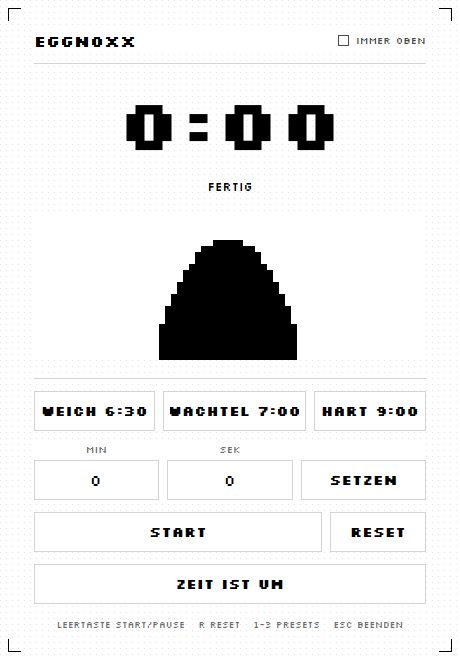
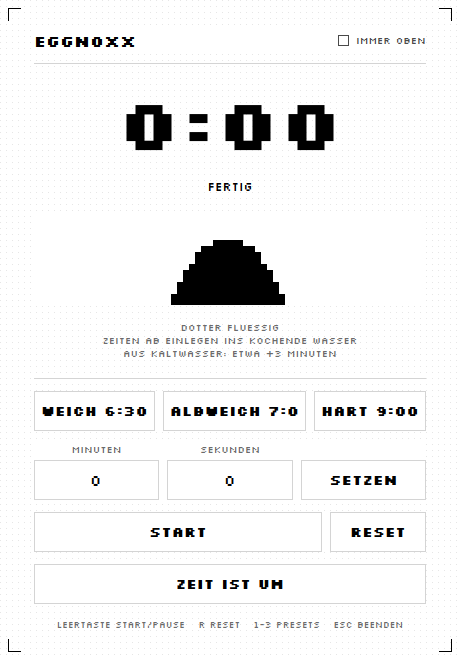
Kochzeiten praezisieren: Halbweich, Zaehlkonvention und Dotter-Hinweis
Zwei irrefuehrende Stellen korrigiert:

- Der mittlere Preset hiess "Wachtel", was ein Wachtelei (Gefluegel) meint.
  Die gemeinte Stufe ist die halbweiche: Dotter dickfluessig, weich. Der
  Key wandert entsprechend von "wachtel" nach "halbweich".
- Die Presets nannten eine Rechnung, ohne die Konvention zu nennen. Die
  klassischen Zeiten zaehlen ab dem Einlegen ins bereits kochende Wasser;
  aus Kaltwasser kostet dasselbe Ergebnis rund drei Minuten mehr. Die App
  sagt das jetzt sichtbar unter dem Ei und im Tooltip, statt es zu
  verschweigen.

Jeder Preset beschreibt zusaetzlich sein Ergebnis ("Dotter fluessig"), weil
eine Zeit allein nicht sagt, was der Dotter machen soll. Bei frei getippten
Zeiten entfaellt der Preset-Text, die Konvention bleibt sichtbar.

Tests: 37 Logik-Tests, darunter einer der sicherstellt, dass kein Preset
mehr "Wachtel" heisst, und einer fuer die Reihenfolge weich<halbweich<hart.

diff --git a/eggnoxx/window.py b/eggnoxx/window.py
@@ -23,7 +23,16 @@ from PySide6.QtWidgets import (
 
 from eggnoxx import theme
 from eggnoxx.alarm import Alarmer
-from eggnoxx.core import PRESETS, TICK_INTERVAL_MS, Countdown, State, clamp_duration
+from eggnoxx.core import (
+    BOILING_WATER_HINT,
+    COLD_WATER_HINT,
+    PRESETS,
+    TICK_INTERVAL_MS,
+    Countdown,
+    Preset,
+    State,
+    clamp_duration,
+)
 from eggnoxx.egg import EggWidget
 from eggnoxx.panel import Panel, separator
 
@@ -40,11 +49,13 @@ class MainWindow(QMainWindow):
         self.setMinimumSize(460, 660)
 
         self.timer = Countdown(PRESETS[0].seconds)
+        self._active_preset: Preset | None = PRESETS[0]
         self.egg = EggWidget()
         self.alarmer = Alarmer(self)
 
         self.time_label = self._build_time_label()
         self.status_label = self._build_status_label()
+        self.preset_hint = self._build_preset_hint()
         self.preset_buttons = self._build_presets()
         self.minutes_box, self.seconds_box = self._build_free_input()
         self.start_button = self._build_button("START", self._toggle)
@@ -87,11 +98,28 @@ class MainWindow(QMainWindow):
         label.setFont(theme.pixel(12))
         return label
 
+    def _build_preset_hint(self) -> QLabel:
+        """Describes the selected preset and when the countdown starts.
+
+        The classic German cooking times count from lowering the egg into
+        boiling water. Saying so matters: started from cold water the same
+        numbers are roughly three minutes short.
+        """
+        label = QLabel()
+        label.setAlignment(Qt.AlignmentFlag.AlignCenter)
+        label.setFont(theme.pixel(10))
+        label.setStyleSheet(f"color: {theme.DIM.name()};")
+        label.setWordWrap(True)
+        return label
+
     def _build_presets(self) -> list[QPushButton]:
         buttons = []
         for index, preset in enumerate(PRESETS, start=1):
             button = self._build_button(f"{preset.label.upper()} {preset.display}", None)
-            button.setToolTip(f"Kurzbefehl {index}")
+            button.setToolTip(
+                f"{preset.label}: {preset.note}\n"
+                f"{BOILING_WATER_HINT}\n{COLD_WATER_HINT}\nKurzbefehl {index}"
+            )
             button.clicked.connect(lambda _=False, p=preset: self._select_preset(p))
             buttons.append(button)
         return buttons
@@ -126,6 +154,8 @@ class MainWindow(QMainWindow):
         layout.addWidget(self.status_label)
         layout.addSpacing(10)
         layout.addWidget(self._build_egg_row())
+        layout.addSpacing(4)
+        layout.addWidget(self.preset_hint)
         layout.addStretch(1)
         layout.addSpacing(6)
 
@@ -197,8 +227,8 @@ class MainWindow(QMainWindow):
         grid.setHorizontalSpacing(8)
         grid.setVerticalSpacing(4)
 
-        caption_min = QLabel("MIN")
-        caption_sec = QLabel("SEK")
+        caption_min = QLabel("MINUTEN")
+        caption_sec = QLabel("SEKUNDEN")
         for caption in (caption_min, caption_sec):
             caption.setFont(theme.pixel(10))
             caption.setAlignment(Qt.AlignmentFlag.AlignCenter)
@@ -271,6 +301,7 @@ class MainWindow(QMainWindow):
         self.seconds_box.setValue(preset.seconds % 60)
         self.minutes_box.blockSignals(False)
         self.seconds_box.blockSignals(False)
+        self._active_preset = preset
         self._refresh()
 
     def _on_free_input(self) -> None:
@@ -283,7 +314,14 @@ class MainWindow(QMainWindow):
             return
         self.alarmer.stop()
         self.timer.set_duration(clamp_duration(self.minutes_box.value(), self.seconds_box.value()))
+        # A hand-typed time is no preset, so drop the preset description.
+        self._active_preset = None
         self._refresh()
+
+    def _hint_text(self) -> str:
+        """Two short lines under the egg: the result and how to count."""
+        result = self._active_preset.note if self._active_preset else "Freie Zeit"
+        return f"{result}\n{BOILING_WATER_HINT}\n{COLD_WATER_HINT}"
 
     def _set_always_on_top(self, enabled: bool) -> None:
         self.setWindowFlag(Qt.WindowType.WindowStaysOnTopHint, enabled)
@@ -313,6 +351,7 @@ class MainWindow(QMainWindow):
                 State.DONE: "FERTIG",
             }[self.timer.state]
         )
+        self.preset_hint.setText(self._hint_text())
         busy = self.timer.is_running or self.timer.state is State.PAUSED
         for button in (*self.preset_buttons, self.set_button):
             button.setEnabled(not busy)

diff --git a/tests/test_core.py b/tests/test_core.py
@@ -5,6 +5,8 @@ from __future__ import annotations
 import pytest
 
 from eggnoxx.core import (
+    BOILING_WATER_HINT,
+    COLD_WATER_HINT,
     PRESETS,
     PRESETS_BY_KEY,
     Countdown,
@@ -58,10 +60,35 @@ def test_clamp_duration_keeps_positive() -> None:
 
 # -- presets -----------------------------------------------------------
 def test_presets_are_the_classic_egg_times() -> None:
-    assert [preset.key for preset in PRESETS] == ["weich", "wachtel", "hart"]
+    assert [preset.key for preset in PRESETS] == ["weich", "halbweich", "hart"]
     assert [preset.seconds for preset in PRESETS] == [390, 420, 540]
     assert PRESETS[0].display == "6:30"
     assert PRESETS_BY_KEY["hart"].label == "Hart"
+
+
+def test_no_preset_is_called_wachtel() -> None:
+    """ "Wachtel" means a quail egg; the middle stage is "halbweich"."""
+    assert all("wachtel" not in preset.label.lower() for preset in PRESETS)
+    assert all("wachtel" not in preset.key for preset in PRESETS)
+    assert set(PRESETS_BY_KEY) == {"weich", "halbweich", "hart"}
+
+
+def test_every_preset_describes_the_result() -> None:
+    """A time alone does not say what the yolk should look like."""
+    for preset in PRESETS:
+        assert preset.note
+    assert "fluessig" in PRESETS_BY_KEY["weich"].note
+    assert "fest" in PRESETS_BY_KEY["hart"].note
+
+
+def test_presets_are_ordered_from_soft_to_hard() -> None:
+    times = [preset.seconds for preset in PRESETS]
+    assert times == sorted(times)
+
+
+def test_hints_name_the_counting_convention() -> None:
+    assert "kochende" in BOILING_WATER_HINT
+    assert "Kaltwasser" in COLD_WATER_HINT
 
 
 # -- countdown ---------------------------------------------------------

diff --git a/smoke_test.py b/smoke_test.py
@@ -107,13 +107,33 @@ def main() -> int:
     check("zurueck auf IDLE", window.timer.state.name == "IDLE")
     check("Dauer bleibt erhalten", window.timer.total == 2)
 
-    print("presets + freie eingabe")
+    print("presets + hinweise")
+    window._select_preset(PRESETS[1])
+    check(
+        "mittelpreset heisst halbweich",
+        PRESETS[1].label == "Halbweich" and "7:00" in window.preset_buttons[1].text(),
+    )
+    button_labels = " ".join(b.text() for b in window.preset_buttons)
+    check("kein 'wachtel' mehr im fenster", "WACHTEL" not in button_labels.upper())
+    check(
+        "preset-hinweis nennt den dotter",
+        "Dotter" in window.preset_hint.text(),
+    )
+    check(
+        "preset-hinweis nennt die zaehlkonvention",
+        "kochende" in window.preset_hint.text(),
+    )
     window._select_preset(PRESETS[2])
-    check("Hart geladen", window.timer.total == 540 and window.time_label.text() == "9:00")
-    window.minutes_box.setValue(3)
-    window.seconds_box.setValue(15)
+    check("Hart-Button geladen", window.timer.total == 540)
+    window.minutes_box.setValue(4)
+    window.seconds_box.setValue(5)
     window._apply_free_input()
-    check("freie Zeit 3:15", window.timer.display == "3:15")
+    check("freie zeit 4:05", window.timer.display == "4:05")
+    check(
+        "freie zeit verliert den preset-text",
+        "Dotter" not in window.preset_hint.text(),
+    )
+    check("freie zeit nennt die konvention", "kochende" in window.preset_hint.text())
 
     print("ausrichtung")
     tops = {

diff --git a/eggnoxx/core.py b/eggnoxx/core.py
@@ -23,22 +23,34 @@ class State(Enum):
 
 @dataclass(frozen=True)
 class Preset:
-    """A named cooking time offered as a one-click button."""
+    """A named cooking time offered as a one-click button.
+
+    ``note`` says what the result should look like, which is what people
+    actually want to know - "weich" alone does not tell you whether the yolk
+    should still be runny.
+    """
 
     key: str
     label: str
     seconds: int
+    note: str
 
     @property
     def display(self) -> str:
         return format_mmss(self.seconds)
 
 
+# All times are counted from lowering the egg into ALREADY BOILING water. From
+# cold water the egg first has to heat up, which costs roughly three extra
+# minutes - enough to turn a soft egg into a rubber one.
 PRESETS: tuple[Preset, ...] = (
-    Preset(key="weich", label="Weich", seconds=6 * 60 + 30),
-    Preset(key="wachtel", label="Wachtel", seconds=7 * 60),
-    Preset(key="hart", label="Hart", seconds=9 * 60),
+    Preset(key="weich", label="Weich", seconds=6 * 60 + 30, note="Dotter fluessig"),
+    Preset(key="halbweich", label="Halbweich", seconds=7 * 60, note="Dotter dickfluessig"),
+    Preset(key="hart", label="Hart", seconds=9 * 60, note="Dotter fest"),
 )
+
+BOILING_WATER_HINT = "Zeiten ab Einlegen ins kochende Wasser"
+COLD_WATER_HINT = "Aus Kaltwasser: etwa +3 Minuten"
 
 PRESETS_BY_KEY = {preset.key: preset for preset in PRESETS}
 

diff --git a/README.md b/README.md
@@ -8,7 +8,7 @@ eine große Uhr aus einer 8×8-Pixelschrift.
 
 ## Features
 
-- **Presets**: Weich 6:30 · Wachtel 7:00 · Hart 9:00
+- **Presets**: Weich 6:30 · Halbweich 7:00 · Hart 9:00
 - **Freier Timer** mit Minuten- und Sekundeneingabe
 - **Pixel-Ei**, das sich beim Kochen von unten füllt
 - **Volumen-gerechter Füllstand** — das Ei wirkt gefüllt, nicht nur hoch
@@ -16,13 +16,29 @@ eine große Uhr aus einer 8×8-Pixelschrift.
 - **Immer-im-Vordergrund** für den Blick über den Herd
 - Läuft auch minimiert weiter, beim Schließen wird nachgefragt
 
+## Kochzeiten
+
+Alle Presets zählen **ab dem Einlegen ins bereits kochende Wasser** — so ist
+es auch in den klassischen Kochzeiten-Tabellen üblich. Das Ei ist ein
+Wärmespeicher und muss erst selbst auf Temperatur kommen.
+
+| Preset | Zeit | Dotter |
+| --- | --- | --- |
+| Weich | 6:30 | noch flüssig |
+| Halbweich | 7:00 | dickflüssig, weich |
+| Hart | 9:00 | vollständig fest |
+
+**Aus Kaltwasser** braucht dasselbe Ergebnis etwa **3 Minuten mehr** (weich also
+rund 9–10 min, hart rund 12–13 min). Die App weist während des Betriebs darauf
+hin.
+
 ## Bedienung
 
 | Taste | Funktion |
 | --- | --- |
 | `Leertaste` | Start / Pause |
 | `R` | Reset |
-| `1` `2` `3` | Preset Weich / Wachtel / Hart |
+| `1` `2` `3` | Preset Weich / Halbweich / Hart |
 | `Alt` + `T` | Immer im Vordergrund umschalten |
 | `Esc` | Beenden |
 
@@ -47,7 +63,7 @@ Alternativ nach `pip install -e .` als `eggnoxx`.
 ```bash
 pip install -e ".[dev]"
 
-pytest              # 33 Logik-Tests, ohne GUI
+pytest              # 37 Logik-Tests, ohne GUI
 ruff check .
 ruff format .
 
